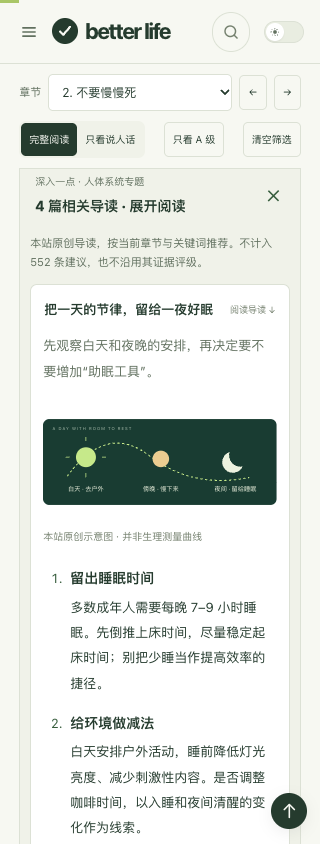
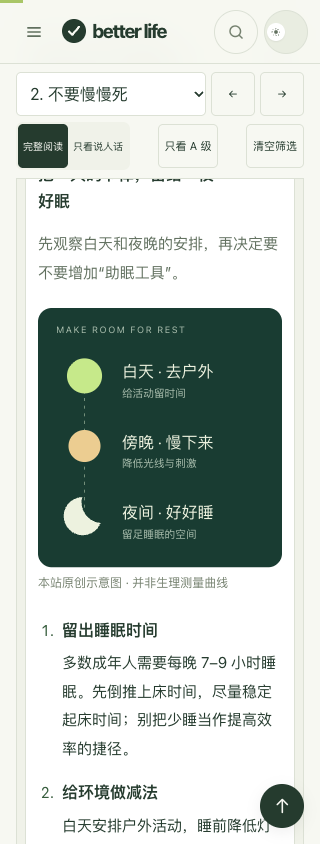
feat: 统一电脑与手机阅读布局及插图适配

diff --git a/index.html b/index.html
@@ -277,6 +277,48 @@ html{scroll-behavior:smooth;scroll-padding-top:104px}body{font-size:14px}button,
 #companions{margin:18px 0;border:1px solid var(--divider);border-radius:9px;background:var(--bg-alt);scroll-margin-top:180px}#companions>summary{display:flex;align-items:center;justify-content:space-between;gap:15px;padding:17px 20px;cursor:pointer;list-style:none}#companions>summary::-webkit-details-marker{display:none}#companions>summary small{display:block;color:var(--t2);font-size:10px;margin-bottom:4px}#companions>summary strong{font-size:14px;font-weight:550}#companions>summary>span:last-child{font-size:23px;color:var(--brand-1);transition:transform .2s}#companions[open]>summary>span:last-child{transform:rotate(45deg)}.companion-body{padding:0 20px 18px}.companion-note{font-size:11px;color:var(--t2);line-height:1.8;margin:0 0 12px}.companion-guide{background:var(--bg-elv);border:1px solid var(--divider);border-radius:7px;margin:9px 0;scroll-margin-top:180px}.companion-guide>summary{display:flex;gap:12px;align-items:center;justify-content:space-between;padding:16px;cursor:pointer;list-style:none;font-size:14px;font-weight:550}.companion-guide>summary::-webkit-details-marker{display:none}.companion-guide>summary small{font-size:10px;color:var(--t3);font-weight:400;white-space:nowrap}.guide-content{padding:0 18px 18px;font-size:13px;line-height:1.95}.guide-deck{color:var(--t2);margin:0 0 18px}.guide-content figure{margin:18px 0}.guide-content svg{display:block;width:100%;height:auto;border-radius:10px}.guide-content figcaption{font-size:10px;color:var(--t3);margin-top:5px}.guide-content ol{padding-left:23px}.guide-content li{padding-left:4px;margin:13px 0}.guide-content li::marker{color:var(--brand-1)}.guide-content h4{font-size:14px;font-weight:550;margin:0 0 3px}.guide-content p{margin-top:0}.guide-content aside{background:var(--bg-alt);border-left:2px solid #9aad83;padding:12px 15px;margin:20px 0}.guide-content aside p{margin:5px 0 0}.guide-related,.guide-sources,.guide-permalink{font-size:11px}.guide-related a{display:inline-block;margin-right:6px}.guide-sources{margin:12px 0}.guide-sources summary,.companion-library summary{cursor:pointer}.companion-library{font-size:11px;line-height:1.9;margin-top:15px;color:var(--t2)}.companion-library small{display:block;color:var(--t3)}.companion-library li{margin:10px 0}.guide-content a,.companion-library a{overflow-wrap:anywhere}#companions :focus-visible{outline:2px solid var(--brand-1);outline-offset:4px}@media(max-width:640px){.companion-body{padding:0 10px 12px}#companions>summary{padding:15px}.guide-content{padding:0 12px 14px}.companion-guide>summary{padding:13px;font-size:13px}.companion-guide>summary small{font-size:9px}.guide-content svg{min-height:120px}}@media(prefers-reduced-motion:reduce){#companions>summary>span:last-child{transition:none}}
 
 /* COMPANION STYLE END */
+/* RESPONSIVE STYLE BEGIN */
+/* Shared reading scale. Keep the compact homepage; enlarge content, not empty space. */
+:root{--reader-size:15px;--reader-leading:1.9}
+.human,.rows,.src .body,.intro,.guide-content{font-size:var(--reader-size);line-height:var(--reader-leading)}
+.rows .k,.src summary,.doc-links,.companion-note,.companion-library,.guide-related,.guide-sources,.guide-permalink{font-size:12px}
+.guide-content{max-width:800px;margin-inline:auto;overflow-wrap:anywhere}
+.guide-content h4{font-size:16px}.guide-content figcaption{font-size:12px;line-height:1.7}
+.guide-content figure{max-width:760px;margin:22px auto}.guide-content svg{min-height:0}
+.guide-content .guide-art-mobile{display:none}
+.companion-guide>summary{font-size:16px;min-height:52px}.companion-guide>summary small{font-size:11px}
+.large-text{--reader-size:18px}.large-text .human,.large-text .rows,.large-text .src .body,.large-text .intro,.large-text .guide-content{font-size:var(--reader-size)}
+.large-text .guide-content h4{font-size:19px}
+.card-h h3{overflow-wrap:anywhere}.sec-h h2{min-width:0}.sec-h .shown{flex-shrink:0}
+.reading-tools{gap:10px}.chapter-controls{min-width:0;flex:1 1 260px}.chapter-controls select{max-width:none}.reading-switches{flex-wrap:wrap}
+.reading-tools button,.chapter-controls select,.hero-chapter select,.stat button,.outline-button{min-height:44px}
+.reading-tools button{font-size:12px}.chapter-controls select{font-size:14px}
+#chapter-prev,#chapter-next{min-width:44px}.save-button{width:44px;min-width:44px;min-height:44px}
+#chapter-index a,.guide-sources summary,.companion-library summary,.reading-help>summary{min-height:44px;display:flex;align-items:center}
+.reading-help>summary{justify-content:space-between;gap:12px}
+.guide-related a,.guide-permalink{padding-block:8px}
+.back-top{width:44px;height:44px;right:max(16px,env(safe-area-inset-right));bottom:max(16px,env(safe-area-inset-bottom))}
+@media(min-width:961px){.sidebar .sec-link{font-size:12px;min-height:36px}.sidebar .chip{font-size:12px;min-height:32px}}
+@media(max-width:960px){
+ .menu-btn{width:44px;height:44px;flex-shrink:0}.sidebar{padding-bottom:max(24px,env(safe-area-inset-bottom));overflow-y:auto;overscroll-behavior:contain}.sidebar .sec-link{min-height:44px;font-size:14px}.sidebar .chip{min-height:44px;padding:8px 12px}.sidebar .toggle{min-height:44px;display:flex;align-items:center}
+ .search input{font-size:16px;min-height:44px}.chapter-controls select,.hero-chapter select{font-size:16px}
+ .switch{width:44px;height:44px;border-radius:24px}.switch .knob{top:12px}.switch .knob{left:2px}
+ .card,.sec-block,#companions,.companion-guide{scroll-margin-top:230px}
+}
+@media(max-width:640px){
+ .nav-in{padding-inline:max(12px,env(safe-area-inset-left));gap:6px}.title{font-size:19px;gap:6px;white-space:nowrap}.title .logo{width:24px;height:24px}.search{max-width:44px;flex-shrink:0}.search input{width:44px}.search svg{left:13px}
+ .library-layout,.library-heading{margin-inline:16px}.card{padding:18px 14px}.card-h{gap:7px}.card-h h3{font-size:17px}.human{padding:12px}.badge{font-size:11px}.rows{gap:5px}.rows .k{font-size:12px}.doc-head .reader-note{font-size:12px}.doc-head .stat{font-size:11px;gap:5px}.stat #text-size,.stat #saved-filter{font-size:11px;padding:8px}
+ .chapter-controls{flex-basis:100%;gap:5px}.chapter-controls label{display:none}.reading-tools{padding:8px 0;gap:6px}.reading-switches{gap:4px}.reading-tools button{padding:8px 6px;font-size:11px}.segmented{padding:2px}.reading-tools .segmented button{font-size:10px;padding-inline:5px}
+ #companions>summary{padding:15px 12px}#companions>summary small{font-size:12px}.companion-body{padding:0 8px 12px}.companion-guide>summary{padding:14px 12px;gap:8px;align-items:flex-start}.companion-guide>summary span{flex:1;min-width:0}.companion-guide>summary small{font-size:11px;line-height:24px}.guide-content{padding:0 12px 16px}.guide-content ol{padding-left:20px}.guide-content aside{padding:12px}.guide-content figure{max-width:340px}.guide-content .guide-art-wide{display:none}.guide-content .guide-art-mobile{display:block}.companion-note{line-height:1.8}.companion-library ul{padding-left:20px}
+ .hero-chapter select{min-height:44px}.path-card p{font-size:10px}.path-card h3{font-size:13px}.hero-actions .primary,.hero-actions .text-action{min-height:44px;display:inline-flex;align-items:center}.evidence-help .method p{font-size:12px}
+}
+/* Short landscape screens need room for the article, not a second pinned header. */
+@media(max-height:500px) and (max-width:960px){.reading-tools{position:static}.card,.sec-block,#companions,.companion-guide{scroll-margin-top:calc(var(--nav-h) + 14px)}.sidebar .sec-links{max-height:none}.hero-art{height:240px}}
+
+html{scroll-padding-top:calc(var(--nav-h) + 16px)}
+.card,.sec-block,#companions,.companion-guide{scroll-margin-top:max(0px,calc(var(--reading-offset,230px) - var(--nav-h) - 16px))}
+
+/* RESPONSIVE STYLE END */
 </style>
 </head>
 <body>
@@ -906,7 +948,7 @@ const CARD_IO = new IntersectionObserver(list => {
 }, {rootMargin:'600px 0px'});
 function esc(s){ return s.replace(/[&<>"]/g, ch => ({'&':'&amp;','<':'&lt;','>':'&gt;','"':'&quot;'}[ch])); }
 /* COMPANION SCRIPT BEGIN */
-const COMPANIONS = {"version":1,"reviewed":"2026-09-29","upstreamCommit":"de3188fb1fbc8ac83fd72155df2c11ce9cddd2ba","guides":[{"id":"sleep","title":"把一天的节律，留给一夜好眠","chapters":["2","3"],"topic":"睡眠","deck":"先观察白天和夜晚的安排，再决定要不要增加“助眠工具”。","steps":[["留出睡眠时间","多数成年人需要每晚 7–9 小时睡眠。先倒推上床时间，尽量稳定起床时间；别把少睡当作提高效率的捷径。"],["给环境做减法","白天安排户外活动，睡前降低灯光亮度、减少刺激性内容。是否调整咖啡时间，以入睡和夜间清醒的变化作为线索。"],["记录真实感受","可连续记录一周的睡眠时段与白天困倦程度。这是本站提供的观察方法，不是诊断量表；持续失眠、明显打鼾或白天嗜睡值得就医评估。"]],"boundary":"不把光照精确分钟数、冷水澡或镁与芹黄素配方作为通用处方；睡眠需求也不能用手环的一次评分替代。","refs":[{"title":"NHLBI：睡眠时长与质量","url":"https://www.nhlbi.nih.gov/health/heart-healthy-living/sleep"},{"title":"NHLBI：失眠的治疗与睡眠习惯","url":"https://www.nhlbi.nih.gov/health/insomnia/treatment"}],"art":"rhythm","source":"https://github.com/zijie0/HumanSystemOptimization/blob/de3188fb1fbc8ac83fd72155df2c11ce9cddd2ba/README.md#睡眠","illustration":"\u003csvg xmlns=\"http://www.w3.org/2000/svg\" viewBox=\"0 0 680 250\" role=\"img\" aria-label=\"作息示意：白天活动，傍晚减速，夜间休息；非生理测量曲线\">\u003ctitle>作息示意：白天活动，傍晚减速，夜间休息；非生理测量曲线\u003c/title>\u003crect width=\"680\" height=\"250\" rx=\"18\" fill=\"#193c32\"/>\u003cg font-family=\"system-ui,sans-serif\">\u003cpath d=\"M70 167 Q185 10 310 107 T600 170\" fill=\"none\" stroke=\"#c6e98a\" stroke-width=\"3\" stroke-dasharray=\"7 7\"/>\u003ccircle cx=\"125\" cy=\"111\" r=\"29\" fill=\"#c6e98a\"/>\u003cg stroke=\"#c6e98a\" stroke-width=\"2\">\u003cpath d=\"M125 64v-12M125 158v12M78 111H66M172 111h12\"/>\u003c/g>\u003ccircle cx=\"343\" cy=\"116\" r=\"24\" fill=\"#eccd91\"/>\u003cpath d=\"M543 96a31 31 0 1 0 38 42 33 33 0 0 1-38-42\" fill=\"#edf2df\"/>\u003cg fill=\"#edf2df\" text-anchor=\"middle\" font-size=\"18\">\u003ctext x=\"125\" y=\"210\">白天 · 去户外\u003c/text>\u003ctext x=\"343\" y=\"210\">傍晚 · 慢下来\u003c/text>\u003ctext x=\"560\" y=\"210\">夜间 · 留给睡眠\u003c/text>\u003c/g>\u003ctext x=\"28\" y=\"33\" fill=\"#a9bdad\" font-size=\"12\" letter-spacing=\"3\">A DAY WITH ROOM TO REST\u003c/text>\u003c/g>\u003c/svg>"},{"id":"food","title":"先照顾餐盘，再讨论进食窗口","chapters":["2","16","28"],"topic":"饮食","deck":"食物质量、能否坚持与身体状况，比追求一张完美的时间表更重要。","steps":[["从一餐开始","以多样的蔬菜、水果、全谷物和豆类为基础，减少游离糖、过量盐及不健康脂肪。先选一餐做可持续的替换，不必一次改变全部饮食。"],["把断食当作待评估选项","间歇性断食并非人人必需，也没有在此被认定为人类延寿方案。使用降糖药、有进食障碍史、孕哺期或未成年人，应先咨询专业人员，不自行照搬成人限时饮食。"],["身体不适优先处理","不要用盐水代替低血糖处理。糖尿病患者若血糖低于个人目标或 70 mg/dL，且意识清醒、能够吞咽，NIDDK 建议立即摄入 15–20 克快速碳水，15 分钟后复测，仍低时重复处理。严重意识异常需急救，不强行喂食；具体用药相关处理见下方来源。"]],"boundary":"消化道健康也不能靠“空腹越久越好”判断。长时间不进食与快速减重可能增加胆结石风险；有胆囊问题时应个体化评估。","refs":[{"title":"WHO：健康膳食","url":"https://www.who.int/health-topics/healthy-diet"},{"title":"NIDDK：低血糖处理","url":"https://www.niddk.nih.gov/health-information/diabetes/overview/preventing-problems/low-blood-glucose-hypoglycemia"},{"title":"NIDDK：节食与胆结石","url":"https://www.niddk.nih.gov/health-information/digestive-diseases/gallstones/dieting"}],"art":null,"source":"https://github.com/zijie0/HumanSystemOptimization/blob/de3188fb1fbc8ac83fd72155df2c11ce9cddd2ba/README.md#饮食"},{"id":"drive","title":"让开始变容易，让反馈看得见","chapters":["3","4","22"],"topic":"心态与动力","deck":"不必给自己的动力余额打分。把想做的事缩小到今天可以开始的动作。","steps":[["把目标变成动作","本站建议：把“提高专注”改成“打开文档，写出三个问题”；把“坚持运动”改成“换鞋出门走一小段”。这是任务设计示例，不是多巴胺治疗方案。"],["给过程留反馈","记录完成了什么、哪里受阻、下次调整什么。成长型思维可以作为反思提示，但不能保证只要足够努力就一定获得某种结果。"],["允许恢复与求助","休息不需要先被证明有生产力。可尝试短暂、舒适的呼吸觉察；如果练习引起明显不适就停止。持续的情绪困扰应寻求合适的支持。"]],"boundary":"原文涉及多巴胺、奖励与冷刺激。神经递质不是一个可自行测算的“快乐余额”；本站不推荐以冰浴、补充剂或所谓聪明药调节它，也不承诺一次冥想永久改变大脑。","refs":[{"title":"NCCIH：冥想的效果与安全性","url":"https://www.nccih.nih.gov/health/meditation-and-mindfulness-effectiveness-and-safety"}],"art":null,"source":"https://github.com/zijie0/HumanSystemOptimization/blob/de3188fb1fbc8ac83fd72155df2c11ce9cddd2ba/README.md#心态与动力"},{"id":"learning","title":"合上资料，才知道学会了多少","chapters":["4","23","30","32"],"topic":"学习与专注","deck":"把“看过”变成“能回忆、能应用”，给练习和休息都留位置。","steps":[["先提出问题","阅读之前写下一个需要解决的问题。结束时合上资料，用自己的话回答，再对照资料纠正遗漏。"],["隔一段时间再提取","把一次长时间重复阅读拆成多次回忆和应用练习。间隔提取研究支持这种方向，但具体间隔应随材料难度与目标调整，没有通用神奇分钟数。"],["为休息留空位","NIH 报道的运动技能实验观察到练习间短休息与学习巩固有关。可以据此尝试练习—休息交替，但不能直接推导为所有学科的固定学习配方。"]],"boundary":"不把 25 岁当作学习能力的截止线，也不把倒立、前庭刺激、特殊补剂或极度压力当作学习必需条件。插图是一种学习流程建议，不是大脑活动测量结果。","refs":[{"title":"Karpicke 与 Roediger：间隔提取实验","url":"https://pubmed.ncbi.nlm.nih.gov/17576148/"},{"title":"NIH：短暂休息与技能学习","url":"https://www.nih.gov/news-events/nih-research-matters/how-short-breaks-help-brain-learn-new-skills"}],"art":"learning","source":"https://github.com/zijie0/HumanSystemOptimization/blob/de3188fb1fbc8ac83fd72155df2c11ce9cddd2ba/README.md#学习与专注","illustration":"\u003csvg xmlns=\"http://www.w3.org/2000/svg\" viewBox=\"0 0 680 250\" role=\"img\" aria-label=\"学习循环：提出问题、主动回忆、核对反馈、休息后重访\">\u003ctitle>学习循环：提出问题、主动回忆、核对反馈、休息后重访\u003c/title>\u003crect width=\"680\" height=\"250\" rx=\"18\" fill=\"#193c32\"/>\u003cg font-family=\"system-ui,sans-serif\">\u003ctext x=\"28\" y=\"33\" fill=\"#a9bdad\" font-size=\"12\" letter-spacing=\"3\">LEARNING IS A LOOP\u003c/text>\u003cpath d=\"M97 123H580M580 170v35H97v-35\" stroke=\"#a9bdad\" fill=\"none\" stroke-width=\"2\"/>\u003cg text-anchor=\"middle\">\u003ccircle cx=\"97\" cy=\"123\" r=\"40\" fill=\"#edf2df\"/>\u003ctext x=\"97\" y=\"130\" fill=\"#193c32\" font-size=\"21\">01\u003c/text>\u003ctext x=\"97\" y=\"184\" fill=\"#edf2df\" font-size=\"16\">提出问题\u003c/text>\u003ccircle cx=\"258\" cy=\"123\" r=\"40\" fill=\"#c6e98a\"/>\u003ctext x=\"258\" y=\"130\" fill=\"#193c32\" font-size=\"21\">02\u003c/text>\u003ctext x=\"258\" y=\"184\" fill=\"#edf2df\" font-size=\"16\">主动回忆\u003c/text>\u003ccircle cx=\"419\" cy=\"123\" r=\"40\" fill=\"#eccd91\"/>\u003ctext x=\"419\" y=\"130\" fill=\"#193c32\" font-size=\"21\">03\u003c/text>\u003ctext x=\"419\" y=\"184\" fill=\"#edf2df\" font-size=\"16\">核对反馈\u003c/text>\u003ccircle cx=\"580\" cy=\"123\" r=\"40\" fill=\"#b6cbbd\"/>\u003ctext x=\"580\" y=\"130\" fill=\"#193c32\" font-size=\"21\">04\u003c/text>\u003ctext x=\"580\" y=\"184\" fill=\"#edf2df\" font-size=\"16\">休息重访\u003c/text>\u003c/g>\u003cpath d=\"m107 199-10 6 10 6\" fill=\"none\" stroke=\"#c6e98a\" stroke-width=\"2\"/>\u003c/g>\u003c/svg>"},{"id":"movement","title":"运动计划，先从能持续的一周开始","chapters":["2","3","17","28"],"topic":"体育锻炼","deck":"把有氧、力量与恢复放进生活，比追赶一个设备分数更有意义。","steps":[["有氧分散到一周","WHO 建议成年人每周至少 150–300 分钟中等强度，或 75–150 分钟高强度有氧活动，或等效组合。尚未达到时，从能力允许的小量活动开始。"],["给力量留位置","成年人每周至少两天进行涉及主要肌群的力量活动。年长者还应重视平衡与功能训练，强度随健康状态和能力调整。"],["久坐之间动一动","本站提供的排程示例：选择几个可重复的散步时段，再安排两次力量练习。它不是人人适用的训练处方，也不要求购买穿戴设备。"]],"boundary":"PAI 或手环热量只能作为设备提供的线索，不能代替医学评估，也不作为这里的统一达标线。有基础疾病或运动中出现异常症状时，需调整计划并寻求专业评估。","refs":[{"title":"WHO：身体活动建议","url":"https://www.who.int/news-room/fact-sheets/detail/physical-activity"}],"art":null,"source":"https://github.com/zijie0/HumanSystemOptimization/blob/de3188fb1fbc8ac83fd72155df2c11ce9cddd2ba/README.md#体育锻炼"},{"id":"longevity","title":"读懂抗衰研究的三层距离","chapters":["2","16","17","24"],"topic":"长寿","deck":"从实验室结果到个人决策，中间还有适用人群、临床结局和安全性。","steps":[["先问研究在谁身上做","细胞、动物与人体研究回答不同问题。细胞重编程的实验进展值得关注，但不能直接等同于可供普通人使用的返老还童治疗。"],["再问测量了什么","生物标志物变化、疾病风险与实际寿命不是同一结局。看到“生物年龄下降”，要继续追问研究规模、对照方式、随访时间与不良反应。"],["最后才讨论个人选择","将注意力优先放在睡眠、身体活动与膳食等已有公共健康建议的事项上。处方药是否适用由临床诊疗决定；不要为抗衰自行使用二甲双胍或组合补剂。"]],"boundary":"原文讨论 NMN、白藜芦醇、药物与细胞重编程，并补充了争议提醒。本站仅保留研究阅读入口，不给剂量、不卖产品、不承诺健康活到某个年龄。","refs":[{"title":"NIA：模拟热量限制的药物研究","url":"https://www.nia.nih.gov/news/live-long-good-health-could-calorie-restriction-mimetics-hold-key"},{"title":"NIA：断食研究与人体健康指标","url":"https://www.nia.nih.gov/news/can-fasting-reduce-disease-risk-and-slow-aging-people"}],"art":"evidence","source":"https://github.com/zijie0/HumanSystemOptimization/blob/de3188fb1fbc8ac83fd72155df2c11ce9cddd2ba/README.md#长寿","illustration":"\u003csvg xmlns=\"http://www.w3.org/2000/svg\" viewBox=\"0 0 680 250\" role=\"img\" aria-label=\"证据示意：细胞或动物实验、人体研究、适用于个人的决策；并非自动升级\">\u003ctitle>证据示意：细胞或动物实验、人体研究、适用于个人的决策；并非自动升级\u003c/title>\u003crect width=\"680\" height=\"250\" rx=\"18\" fill=\"#193c32\"/>\u003cg font-family=\"system-ui,sans-serif\">\u003ctext x=\"28\" y=\"33\" fill=\"#a9bdad\" font-size=\"12\" letter-spacing=\"3\">PROMISE ≠ PROOF\u003c/text>\u003cpath d=\"M55 205h170v-45h170v-45h230\" fill=\"none\" stroke=\"#c6e98a\" stroke-width=\"3\"/>\u003cg fill=\"#edf2df\" font-size=\"18\">\u003ctext x=\"55\" y=\"143\">细胞 / 动物\u003c/text>\u003ctext x=\"259\" y=\"98\">人体研究\u003c/text>\u003ctext x=\"466\" y=\"64\">个人决策\u003c/text>\u003c/g>\u003cg fill=\"#a9bdad\" font-size=\"13\">\u003ctext x=\"55\" y=\"168\">提供机制线索\u003c/text>\u003ctext x=\"259\" y=\"124\">看结局与风险\u003c/text>\u003ctext x=\"466\" y=\"90\">看适用性与获益\u003c/text>\u003c/g>\u003ctext x=\"320\" y=\"226\" fill=\"#c6e98a\" font-size=\"12\">每一步都需要额外证据，不能直接跳过。\u003c/text>\u003c/g>\u003c/svg>"},{"id":"experiment","title":"一次只改一件事，给生活留下余量","chapters":["3","4","22"],"topic":"个人实践","deck":"把他人的日常当作灵感，把自己的记录当作观察；二者都不是因果证明。","steps":[["选一个低负担改变","例如提前准备散步鞋、睡前给手机找一个固定位置，或学习结束后写一张回忆卡。不要同时改作息、饮食和训练，再猜是哪项起效。"],["记下条件与感受","本站建议记录日期、实际动作、精力感受及明显干扰因素。观察一段时间后再决定保留、调整或停止；周期长短不等于医学试验有效性。"],["允许撤回","如果新习惯增加焦虑、持续不适或影响正常生活，应停止并重新评估。生活改善不需要购买同款补剂，也不必照抄名人的整张日程。"]],"boundary":"作者的 2023、2024 年总结与 Lex Fridman 日程文章收在下方原文目录。当前无法读取这些知乎正文，因此这里只提供入口，不把标题当作内容、不编造其结论。","refs":[],"art":null,"source":"https://github.com/zijie0/HumanSystemOptimization/blob/de3188fb1fbc8ac83fd72155df2c11ce9cddd2ba/README.md#个人实践"}],"articles":[{"title":"人体系统调优不完全指南","url":"https://github.com/zijie0/HumanSystemOptimization/blob/de3188fb1fbc8ac83fd72155df2c11ce9cddd2ba/README.md","status":"已读主题正文 · 以原创导读融合"},{"title":"养生博主的 24 年总结","url":"https://zhuanlan.zhihu.com/p/1896275046068094483","status":"仅原文入口 · 正文未取得"},{"title":"养生博主的 23 年总结","url":"https://zhuanlan.zhihu.com/p/675470252","status":"仅原文入口 · 正文未取得"},{"title":"Lex Fridman 大佬的日常生活安排","url":"https://zhuanlan.zhihu.com/p/371254789","status":"仅原文入口 · 正文未取得"},{"title":"人体系统调优 · 作者视频版","url":"https://www.bilibili.com/video/BV1EW4y1R7yi/","status":"视频入口 · 未逐段核验"}]};
+const COMPANIONS = {"version":1,"reviewed":"2026-09-29","upstreamCommit":"de3188fb1fbc8ac83fd72155df2c11ce9cddd2ba","guides":[{"id":"sleep","title":"把一天的节律，留给一夜好眠","chapters":["2","3"],"topic":"睡眠","deck":"先观察白天和夜晚的安排，再决定要不要增加“助眠工具”。","steps":[["留出睡眠时间","多数成年人需要每晚 7–9 小时睡眠。先倒推上床时间，尽量稳定起床时间；别把少睡当作提高效率的捷径。"],["给环境做减法","白天安排户外活动，睡前降低灯光亮度、减少刺激性内容。是否调整咖啡时间，以入睡和夜间清醒的变化作为线索。"],["记录真实感受","可连续记录一周的睡眠时段与白天困倦程度。这是本站提供的观察方法，不是诊断量表；持续失眠、明显打鼾或白天嗜睡值得就医评估。"]],"boundary":"不把光照精确分钟数、冷水澡或镁与芹黄素配方作为通用处方；睡眠需求也不能用手环的一次评分替代。","refs":[{"title":"NHLBI：睡眠时长与质量","url":"https://www.nhlbi.nih.gov/health/heart-healthy-living/sleep"},{"title":"NHLBI：失眠的治疗与睡眠习惯","url":"https://www.nhlbi.nih.gov/health/insomnia/treatment"}],"art":"rhythm","source":"https://github.com/zijie0/HumanSystemOptimization/blob/de3188fb1fbc8ac83fd72155df2c11ce9cddd2ba/README.md#睡眠","illustration":"\u003csvg class=\"guide-art-wide\" xmlns=\"http://www.w3.org/2000/svg\" viewBox=\"0 0 680 250\" role=\"img\" aria-label=\"作息示意：白天活动，傍晚减速，夜间休息；非生理测量曲线\">\u003ctitle>作息示意：白天活动，傍晚减速，夜间休息；非生理测量曲线\u003c/title>\u003crect width=\"680\" height=\"250\" rx=\"18\" fill=\"#193c32\"/>\u003cg font-family=\"system-ui,sans-serif\">\u003cpath d=\"M70 167 Q185 10 310 107 T600 170\" fill=\"none\" stroke=\"#c6e98a\" stroke-width=\"3\" stroke-dasharray=\"7 7\"/>\u003ccircle cx=\"125\" cy=\"111\" r=\"29\" fill=\"#c6e98a\"/>\u003cg stroke=\"#c6e98a\" stroke-width=\"2\">\u003cpath d=\"M125 64v-12M125 158v12M78 111H66M172 111h12\"/>\u003c/g>\u003ccircle cx=\"343\" cy=\"116\" r=\"24\" fill=\"#eccd91\"/>\u003cpath d=\"M543 96a31 31 0 1 0 38 42 33 33 0 0 1-38-42\" fill=\"#edf2df\"/>\u003cg fill=\"#edf2df\" text-anchor=\"middle\" font-size=\"18\">\u003ctext x=\"125\" y=\"210\">白天 · 去户外\u003c/text>\u003ctext x=\"343\" y=\"210\">傍晚 · 慢下来\u003c/text>\u003ctext x=\"560\" y=\"210\">夜间 · 留给睡眠\u003c/text>\u003c/g>\u003ctext x=\"28\" y=\"33\" fill=\"#a9bdad\" font-size=\"12\" letter-spacing=\"3\">A DAY WITH ROOM TO REST\u003c/text>\u003c/g>\u003c/svg>\u003csvg class=\"guide-art-mobile\" xmlns=\"http://www.w3.org/2000/svg\" viewBox=\"0 0 320 340\" role=\"img\" aria-label=\"一天的节律：白天去户外，傍晚慢下来，夜间留给睡眠。非测量曲线。\">\u003ctitle>一天的节律：白天去户外，傍晚慢下来，夜间留给睡眠。非测量曲线。\u003c/title>\u003crect width=\"320\" height=\"340\" rx=\"18\" fill=\"#193c32\"/>\u003cg font-family=\"system-ui,sans-serif\">\u003ctext x=\"24\" y=\"33\" fill=\"#a9bdad\" font-size=\"12\" letter-spacing=\"2\">MAKE ROOM FOR REST\u003c/text>\u003cpath d=\"M61 78V275\" stroke=\"#8fa990\" stroke-dasharray=\"4 6\"/>\u003ccircle cx=\"61\" cy=\"89\" r=\"23\" fill=\"#c6e98a\"/>\u003ccircle cx=\"61\" cy=\"181\" r=\"21\" fill=\"#eccd91\"/>\u003cpath d=\"M58 248a25 25 0 1 0 24 34 27 27 0 0 1-24-34\" fill=\"#edf2df\"/>\u003cg fill=\"#edf2df\" font-size=\"21\">\u003ctext x=\"110\" y=\"91\">白天 · 去户外\u003c/text>\u003ctext x=\"110\" y=\"183\">傍晚 · 慢下来\u003c/text>\u003ctext x=\"110\" y=\"275\">夜间 · 好好睡\u003c/text>\u003c/g>\u003cg fill=\"#a9bdad\" font-size=\"14\">\u003ctext x=\"110\" y=\"117\">给活动留时间\u003c/text>\u003ctext x=\"110\" y=\"209\">降低光线与刺激\u003c/text>\u003ctext x=\"110\" y=\"301\">留足睡眠的空间\u003c/text>\u003c/g>\u003c/g>\u003c/svg>"},{"id":"food","title":"先照顾餐盘，再讨论进食窗口","chapters":["2","16","28"],"topic":"饮食","deck":"食物质量、能否坚持与身体状况，比追求一张完美的时间表更重要。","steps":[["从一餐开始","以多样的蔬菜、水果、全谷物和豆类为基础，减少游离糖、过量盐及不健康脂肪。先选一餐做可持续的替换，不必一次改变全部饮食。"],["把断食当作待评估选项","间歇性断食并非人人必需，也没有在此被认定为人类延寿方案。使用降糖药、有进食障碍史、孕哺期或未成年人，应先咨询专业人员，不自行照搬成人限时饮食。"],["身体不适优先处理","不要用盐水代替低血糖处理。糖尿病患者若血糖低于个人目标或 70 mg/dL，且意识清醒、能够吞咽，NIDDK 建议立即摄入 15–20 克快速碳水，15 分钟后复测，仍低时重复处理。严重意识异常需急救，不强行喂食；具体用药相关处理见下方来源。"]],"boundary":"消化道健康也不能靠“空腹越久越好”判断。长时间不进食与快速减重可能增加胆结石风险；有胆囊问题时应个体化评估。","refs":[{"title":"WHO：健康膳食","url":"https://www.who.int/health-topics/healthy-diet"},{"title":"NIDDK：低血糖处理","url":"https://www.niddk.nih.gov/health-information/diabetes/overview/preventing-problems/low-blood-glucose-hypoglycemia"},{"title":"NIDDK：节食与胆结石","url":"https://www.niddk.nih.gov/health-information/digestive-diseases/gallstones/dieting"}],"art":null,"source":"https://github.com/zijie0/HumanSystemOptimization/blob/de3188fb1fbc8ac83fd72155df2c11ce9cddd2ba/README.md#饮食"},{"id":"drive","title":"让开始变容易，让反馈看得见","chapters":["3","4","22"],"topic":"心态与动力","deck":"不必给自己的动力余额打分。把想做的事缩小到今天可以开始的动作。","steps":[["把目标变成动作","本站建议：把“提高专注”改成“打开文档，写出三个问题”；把“坚持运动”改成“换鞋出门走一小段”。这是任务设计示例，不是多巴胺治疗方案。"],["给过程留反馈","记录完成了什么、哪里受阻、下次调整什么。成长型思维可以作为反思提示，但不能保证只要足够努力就一定获得某种结果。"],["允许恢复与求助","休息不需要先被证明有生产力。可尝试短暂、舒适的呼吸觉察；如果练习引起明显不适就停止。持续的情绪困扰应寻求合适的支持。"]],"boundary":"原文涉及多巴胺、奖励与冷刺激。神经递质不是一个可自行测算的“快乐余额”；本站不推荐以冰浴、补充剂或所谓聪明药调节它，也不承诺一次冥想永久改变大脑。","refs":[{"title":"NCCIH：冥想的效果与安全性","url":"https://www.nccih.nih.gov/health/meditation-and-mindfulness-effectiveness-and-safety"}],"art":null,"source":"https://github.com/zijie0/HumanSystemOptimization/blob/de3188fb1fbc8ac83fd72155df2c11ce9cddd2ba/README.md#心态与动力"},{"id":"learning","title":"合上资料，才知道学会了多少","chapters":["4","23","30","32"],"topic":"学习与专注","deck":"把“看过”变成“能回忆、能应用”，给练习和休息都留位置。","steps":[["先提出问题","阅读之前写下一个需要解决的问题。结束时合上资料，用自己的话回答，再对照资料纠正遗漏。"],["隔一段时间再提取","把一次长时间重复阅读拆成多次回忆和应用练习。间隔提取研究支持这种方向，但具体间隔应随材料难度与目标调整，没有通用神奇分钟数。"],["为休息留空位","NIH 报道的运动技能实验观察到练习间短休息与学习巩固有关。可以据此尝试练习—休息交替，但不能直接推导为所有学科的固定学习配方。"]],"boundary":"不把 25 岁当作学习能力的截止线，也不把倒立、前庭刺激、特殊补剂或极度压力当作学习必需条件。插图是一种学习流程建议，不是大脑活动测量结果。","refs":[{"title":"Karpicke 与 Roediger：间隔提取实验","url":"https://pubmed.ncbi.nlm.nih.gov/17576148/"},{"title":"NIH：短暂休息与技能学习","url":"https://www.nih.gov/news-events/nih-research-matters/how-short-breaks-help-brain-learn-new-skills"}],"art":"learning","source":"https://github.com/zijie0/HumanSystemOptimization/blob/de3188fb1fbc8ac83fd72155df2c11ce9cddd2ba/README.md#学习与专注","illustration":"\u003csvg class=\"guide-art-wide\" xmlns=\"http://www.w3.org/2000/svg\" viewBox=\"0 0 680 250\" role=\"img\" aria-label=\"学习循环：提出问题、主动回忆、核对反馈、休息后重访\">\u003ctitle>学习循环：提出问题、主动回忆、核对反馈、休息后重访\u003c/title>\u003crect width=\"680\" height=\"250\" rx=\"18\" fill=\"#193c32\"/>\u003cg font-family=\"system-ui,sans-serif\">\u003ctext x=\"28\" y=\"33\" fill=\"#a9bdad\" font-size=\"12\" letter-spacing=\"3\">LEARNING IS A LOOP\u003c/text>\u003cpath d=\"M97 123H580M580 170v35H97v-35\" stroke=\"#a9bdad\" fill=\"none\" stroke-width=\"2\"/>\u003cg text-anchor=\"middle\">\u003ccircle cx=\"97\" cy=\"123\" r=\"40\" fill=\"#edf2df\"/>\u003ctext x=\"97\" y=\"130\" fill=\"#193c32\" font-size=\"21\">01\u003c/text>\u003ctext x=\"97\" y=\"184\" fill=\"#edf2df\" font-size=\"16\">提出问题\u003c/text>\u003ccircle cx=\"258\" cy=\"123\" r=\"40\" fill=\"#c6e98a\"/>\u003ctext x=\"258\" y=\"130\" fill=\"#193c32\" font-size=\"21\">02\u003c/text>\u003ctext x=\"258\" y=\"184\" fill=\"#edf2df\" font-size=\"16\">主动回忆\u003c/text>\u003ccircle cx=\"419\" cy=\"123\" r=\"40\" fill=\"#eccd91\"/>\u003ctext x=\"419\" y=\"130\" fill=\"#193c32\" font-size=\"21\">03\u003c/text>\u003ctext x=\"419\" y=\"184\" fill=\"#edf2df\" font-size=\"16\">核对反馈\u003c/text>\u003ccircle cx=\"580\" cy=\"123\" r=\"40\" fill=\"#b6cbbd\"/>\u003ctext x=\"580\" y=\"130\" fill=\"#193c32\" font-size=\"21\">04\u003c/text>\u003ctext x=\"580\" y=\"184\" fill=\"#edf2df\" font-size=\"16\">休息重访\u003c/text>\u003c/g>\u003cpath d=\"m107 199-10 6 10 6\" fill=\"none\" stroke=\"#c6e98a\" stroke-width=\"2\"/>\u003c/g>\u003c/svg>\u003csvg class=\"guide-art-mobile\" xmlns=\"http://www.w3.org/2000/svg\" viewBox=\"0 0 320 352\" role=\"img\" aria-label=\"学习循环：提出问题、主动回忆、核对反馈、休息后重访\">\u003ctitle>学习循环：提出问题、主动回忆、核对反馈、休息后重访\u003c/title>\u003crect width=\"320\" height=\"352\" rx=\"18\" fill=\"#193c32\"/>\u003cg font-family=\"system-ui,sans-serif\">\u003ctext x=\"24\" y=\"32\" fill=\"#a9bdad\" font-size=\"12\" letter-spacing=\"2\">LEARNING IS A LOOP\u003c/text>\u003cpath d=\"M58 79v224\" stroke=\"#8fa990\" stroke-width=\"2\"/>\u003ccircle cx=\"58\" cy=\"83\" r=\"23\" fill=\"#edf2df\"/>\u003ctext x=\"58\" y=\"89\" text-anchor=\"middle\" fill=\"#193c32\" font-size=\"17\">01\u003c/text>\u003ctext x=\"102\" y=\"90\" fill=\"#edf2df\" font-size=\"22\">提出问题\u003c/text>\u003ccircle cx=\"58\" cy=\"157\" r=\"23\" fill=\"#c6e98a\"/>\u003ctext x=\"58\" y=\"163\" text-anchor=\"middle\" fill=\"#193c32\" font-size=\"17\">02\u003c/text>\u003ctext x=\"102\" y=\"164\" fill=\"#edf2df\" font-size=\"22\">主动回忆\u003c/text>\u003ccircle cx=\"58\" cy=\"231\" r=\"23\" fill=\"#eccd91\"/>\u003ctext x=\"58\" y=\"237\" text-anchor=\"middle\" fill=\"#193c32\" font-size=\"17\">03\u003c/text>\u003ctext x=\"102\" y=\"238\" fill=\"#edf2df\" font-size=\"22\">核对反馈\u003c/text>\u003ccircle cx=\"58\" cy=\"305\" r=\"23\" fill=\"#b6cbbd\"/>\u003ctext x=\"58\" y=\"311\" text-anchor=\"middle\" fill=\"#193c32\" font-size=\"17\">04\u003c/text>\u003ctext x=\"102\" y=\"312\" fill=\"#edf2df\" font-size=\"22\">休息重访\u003c/text>\u003cpath d=\"M276 306h15V82h-10m7-5-7 5 7 5\" fill=\"none\" stroke=\"#c6e98a\" stroke-width=\"2\"/>\u003c/g>\u003c/svg>"},{"id":"movement","title":"运动计划，先从能持续的一周开始","chapters":["2","3","17","28"],"topic":"体育锻炼","deck":"把有氧、力量与恢复放进生活，比追赶一个设备分数更有意义。","steps":[["有氧分散到一周","WHO 建议成年人每周至少 150–300 分钟中等强度，或 75–150 分钟高强度有氧活动，或等效组合。尚未达到时，从能力允许的小量活动开始。"],["给力量留位置","成年人每周至少两天进行涉及主要肌群的力量活动。年长者还应重视平衡与功能训练，强度随健康状态和能力调整。"],["久坐之间动一动","本站提供的排程示例：选择几个可重复的散步时段，再安排两次力量练习。它不是人人适用的训练处方，也不要求购买穿戴设备。"]],"boundary":"PAI 或手环热量只能作为设备提供的线索，不能代替医学评估，也不作为这里的统一达标线。有基础疾病或运动中出现异常症状时，需调整计划并寻求专业评估。","refs":[{"title":"WHO：身体活动建议","url":"https://www.who.int/news-room/fact-sheets/detail/physical-activity"}],"art":null,"source":"https://github.com/zijie0/HumanSystemOptimization/blob/de3188fb1fbc8ac83fd72155df2c11ce9cddd2ba/README.md#体育锻炼"},{"id":"longevity","title":"读懂抗衰研究的三层距离","chapters":["2","16","17","24"],"topic":"长寿","deck":"从实验室结果到个人决策，中间还有适用人群、临床结局和安全性。","steps":[["先问研究在谁身上做","细胞、动物与人体研究回答不同问题。细胞重编程的实验进展值得关注，但不能直接等同于可供普通人使用的返老还童治疗。"],["再问测量了什么","生物标志物变化、疾病风险与实际寿命不是同一结局。看到“生物年龄下降”，要继续追问研究规模、对照方式、随访时间与不良反应。"],["最后才讨论个人选择","将注意力优先放在睡眠、身体活动与膳食等已有公共健康建议的事项上。处方药是否适用由临床诊疗决定；不要为抗衰自行使用二甲双胍或组合补剂。"]],"boundary":"原文讨论 NMN、白藜芦醇、药物与细胞重编程，并补充了争议提醒。本站仅保留研究阅读入口，不给剂量、不卖产品、不承诺健康活到某个年龄。","refs":[{"title":"NIA：模拟热量限制的药物研究","url":"https://www.nia.nih.gov/news/live-long-good-health-could-calorie-restriction-mimetics-hold-key"},{"title":"NIA：断食研究与人体健康指标","url":"https://www.nia.nih.gov/news/can-fasting-reduce-disease-risk-and-slow-aging-people"}],"art":"evidence","source":"https://github.com/zijie0/HumanSystemOptimization/blob/de3188fb1fbc8ac83fd72155df2c11ce9cddd2ba/README.md#长寿","illustration":"\u003csvg class=\"guide-art-wide\" xmlns=\"http://www.w3.org/2000/svg\" viewBox=\"0 0 680 250\" role=\"img\" aria-label=\"证据示意：细胞或动物实验、人体研究、适用于个人的决策；并非自动升级\">\u003ctitle>证据示意：细胞或动物实验、人体研究、适用于个人的决策；并非自动升级\u003c/title>\u003crect width=\"680\" height=\"250\" rx=\"18\" fill=\"#193c32\"/>\u003cg font-family=\"system-ui,sans-serif\">\u003ctext x=\"28\" y=\"33\" fill=\"#a9bdad\" font-size=\"12\" letter-spacing=\"3\">PROMISE ≠ PROOF\u003c/text>\u003cpath d=\"M55 205h170v-45h170v-45h230\" fill=\"none\" stroke=\"#c6e98a\" stroke-width=\"3\"/>\u003cg fill=\"#edf2df\" font-size=\"18\">\u003ctext x=\"55\" y=\"143\">细胞 / 动物\u003c/text>\u003ctext x=\"259\" y=\"98\">人体研究\u003c/text>\u003ctext x=\"466\" y=\"64\">个人决策\u003c/text>\u003c/g>\u003cg fill=\"#a9bdad\" font-size=\"13\">\u003ctext x=\"55\" y=\"168\">提供机制线索\u003c/text>\u003ctext x=\"259\" y=\"124\">看结局与风险\u003c/text>\u003ctext x=\"466\" y=\"90\">看适用性与获益\u003c/text>\u003c/g>\u003ctext x=\"320\" y=\"226\" fill=\"#c6e98a\" font-size=\"12\">每一步都需要额外证据，不能直接跳过。\u003c/text>\u003c/g>\u003c/svg>\u003csvg class=\"guide-art-mobile\" xmlns=\"http://www.w3.org/2000/svg\" viewBox=\"0 0 320 340\" role=\"img\" aria-label=\"研究证据到个人决策的三层距离，每一步需要额外证据\">\u003ctitle>研究证据到个人决策的三层距离，每一步需要额外证据\u003c/title>\u003crect width=\"320\" height=\"340\" rx=\"18\" fill=\"#193c32\"/>\u003cg font-family=\"system-ui,sans-serif\">\u003ctext x=\"24\" y=\"33\" fill=\"#a9bdad\" font-size=\"12\" letter-spacing=\"2\">PROMISE ≠ PROOF\u003c/text>\u003cpath d=\"M42 75v204\" stroke=\"#c6e98a\" stroke-width=\"2\" stroke-dasharray=\"4 6\"/>\u003ccircle cx=\"42\" cy=\"78\" r=\"7\" fill=\"#c6e98a\"/>\u003ctext x=\"68\" y=\"84\" fill=\"#edf2df\" font-size=\"22\">细胞 / 动物\u003c/text>\u003ctext x=\"68\" y=\"111\" fill=\"#a9bdad\" font-size=\"15\">提供机制线索\u003c/text>\u003ccircle cx=\"42\" cy=\"158\" r=\"7\" fill=\"#c6e98a\"/>\u003ctext x=\"68\" y=\"164\" fill=\"#edf2df\" font-size=\"22\">人体研究\u003c/text>\u003ctext x=\"68\" y=\"191\" fill=\"#a9bdad\" font-size=\"15\">看临床结局与风险\u003c/text>\u003ccircle cx=\"42\" cy=\"238\" r=\"7\" fill=\"#c6e98a\"/>\u003ctext x=\"68\" y=\"244\" fill=\"#edf2df\" font-size=\"22\">个人决策\u003c/text>\u003ctext x=\"68\" y=\"271\" fill=\"#a9bdad\" font-size=\"15\">看适用性与获益\u003c/text>\u003ctext x=\"24\" y=\"316\" fill=\"#c6e98a\" font-size=\"14\">每一步，都需要额外证据。\u003c/text>\u003c/g>\u003c/svg>"},{"id":"experiment","title":"一次只改一件事，给生活留下余量","chapters":["3","4","22"],"topic":"个人实践","deck":"把他人的日常当作灵感，把自己的记录当作观察；二者都不是因果证明。","steps":[["选一个低负担改变","例如提前准备散步鞋、睡前给手机找一个固定位置，或学习结束后写一张回忆卡。不要同时改作息、饮食和训练，再猜是哪项起效。"],["记下条件与感受","本站建议记录日期、实际动作、精力感受及明显干扰因素。观察一段时间后再决定保留、调整或停止；周期长短不等于医学试验有效性。"],["允许撤回","如果新习惯增加焦虑、持续不适或影响正常生活，应停止并重新评估。生活改善不需要购买同款补剂，也不必照抄名人的整张日程。"]],"boundary":"作者的 2023、2024 年总结与 Lex Fridman 日程文章收在下方原文目录。当前无法读取这些知乎正文，因此这里只提供入口，不把标题当作内容、不编造其结论。","refs":[],"art":null,"source":"https://github.com/zijie0/HumanSystemOptimization/blob/de3188fb1fbc8ac83fd72155df2c11ce9cddd2ba/README.md#个人实践"}],"articles":[{"title":"人体系统调优不完全指南","url":"https://github.com/zijie0/HumanSystemOptimization/blob/de3188fb1fbc8ac83fd72155df2c11ce9cddd2ba/README.md","status":"已读主题正文 · 以原创导读融合"},{"title":"养生博主的 24 年总结","url":"https://zhuanlan.zhihu.com/p/1896275046068094483","status":"仅原文入口 · 正文未取得"},{"title":"养生博主的 23 年总结","url":"https://zhuanlan.zhihu.com/p/675470252","status":"仅原文入口 · 正文未取得"},{"title":"Lex Fridman 大佬的日常生活安排","url":"https://zhuanlan.zhihu.com/p/371254789","status":"仅原文入口 · 正文未取得"},{"title":"人体系统调优 · 作者视频版","url":"https://www.bilibili.com/video/BV1EW4y1R7yi/","status":"视频入口 · 未逐段核验"}]};
 function buildCompanions(){
   const panel=document.createElement('details');panel.id='companions';
   panel.innerHTML='<summary><span><small>深入一点 · 人体系统专题</small><strong id="companion-label"></strong></span><span aria-hidden="true">＋</span></summary><div class="companion-body"><p class="companion-note">本站原创导读，按当前章节与关键词推荐。不计入 552 条建议，也不沿用其证据评级。</p><div id="companion-guides"></div><details class="companion-library"><summary>原文目录与收录说明</summary><p>来源：zijie0 / HumanSystemOptimization。原仓库未声明转载许可，因此保留原文入口，独立编写导读与插图；未复制正文或原图。核对日期：'+COMPANIONS.reviewed+'。</p><ul>'+COMPANIONS.articles.map(a=>'<li><a target="_blank" rel="noopener noreferrer" href="'+esc(a.url)+'">'+esc(a.title)+' ↗</a><small>'+esc(a.status)+'</small></li>').join('')+'</ul></details></div>';
@@ -1095,6 +1137,16 @@ function syncReadingTools(){
   if(!index.hidden){const visible=CARDS.filter(c=>!c.el.hidden);document.getElementById('index-count').textContent=visible.length+' 条';for(const card of visible){const a=document.createElement('a');a.href='#'+card.el.id;a.textContent=card.e.n+'. '+card.e.title;nav.appendChild(a);}}
 }
 function wireReadingTools(reset){
+  // Match anchor clearance to the actual toolbar height, including wrapped controls.
+  const readingTools=document.querySelector('.reading-tools');
+  const updateReadingOffset=()=>{
+    const pinned=getComputedStyle(readingTools).position==='sticky';
+    const offset=document.querySelector('.nav').getBoundingClientRect().height+(pinned?readingTools.getBoundingClientRect().height:0)+16;
+    document.documentElement.style.setProperty('--reading-offset',Math.ceil(offset)+'px');
+  };
+  new ResizeObserver(updateReadingOffset).observe(readingTools);
+  window.addEventListener('resize',updateReadingOffset,{passive:true});
+  updateReadingOffset();
   const jump=()=>{apply();document.getElementById('reading-title').scrollIntoView({block:'start'});};
   const select=document.getElementById('chapter-select');
   document.getElementById('hero-chapter').addEventListener('change',e=>{select.value=e.target.value;select.dispatchEvent(new Event('change'));});

diff --git a/assets/responsive.css b/assets/responsive.css
@@ -1,0 +1,39 @@
+/* Shared reading scale. Keep the compact homepage; enlarge content, not empty space. */
+:root{--reader-size:15px;--reader-leading:1.9}
+.human,.rows,.src .body,.intro,.guide-content{font-size:var(--reader-size);line-height:var(--reader-leading)}
+.rows .k,.src summary,.doc-links,.companion-note,.companion-library,.guide-related,.guide-sources,.guide-permalink{font-size:12px}
+.guide-content{max-width:800px;margin-inline:auto;overflow-wrap:anywhere}
+.guide-content h4{font-size:16px}.guide-content figcaption{font-size:12px;line-height:1.7}
+.guide-content figure{max-width:760px;margin:22px auto}.guide-content svg{min-height:0}
+.guide-content .guide-art-mobile{display:none}
+.companion-guide>summary{font-size:16px;min-height:52px}.companion-guide>summary small{font-size:11px}
+.large-text{--reader-size:18px}.large-text .human,.large-text .rows,.large-text .src .body,.large-text .intro,.large-text .guide-content{font-size:var(--reader-size)}
+.large-text .guide-content h4{font-size:19px}
+.card-h h3{overflow-wrap:anywhere}.sec-h h2{min-width:0}.sec-h .shown{flex-shrink:0}
+.reading-tools{gap:10px}.chapter-controls{min-width:0;flex:1 1 260px}.chapter-controls select{max-width:none}.reading-switches{flex-wrap:wrap}
+.reading-tools button,.chapter-controls select,.hero-chapter select,.stat button,.outline-button{min-height:44px}
+.reading-tools button{font-size:12px}.chapter-controls select{font-size:14px}
+#chapter-prev,#chapter-next{min-width:44px}.save-button{width:44px;min-width:44px;min-height:44px}
+#chapter-index a,.guide-sources summary,.companion-library summary,.reading-help>summary{min-height:44px;display:flex;align-items:center}
+.reading-help>summary{justify-content:space-between;gap:12px}
+.guide-related a,.guide-permalink{padding-block:8px}
+.back-top{width:44px;height:44px;right:max(16px,env(safe-area-inset-right));bottom:max(16px,env(safe-area-inset-bottom))}
+@media(min-width:961px){.sidebar .sec-link{font-size:12px;min-height:36px}.sidebar .chip{font-size:12px;min-height:32px}}
+@media(max-width:960px){
+ .menu-btn{width:44px;height:44px;flex-shrink:0}.sidebar{padding-bottom:max(24px,env(safe-area-inset-bottom));overflow-y:auto;overscroll-behavior:contain}.sidebar .sec-link{min-height:44px;font-size:14px}.sidebar .chip{min-height:44px;padding:8px 12px}.sidebar .toggle{min-height:44px;display:flex;align-items:center}
+ .search input{font-size:16px;min-height:44px}.chapter-controls select,.hero-chapter select{font-size:16px}
+ .switch{width:44px;height:44px;border-radius:24px}.switch .knob{top:12px}.switch .knob{left:2px}
+ .card,.sec-block,#companions,.companion-guide{scroll-margin-top:230px}
+}
+@media(max-width:640px){
+ .nav-in{padding-inline:max(12px,env(safe-area-inset-left));gap:6px}.title{font-size:19px;gap:6px;white-space:nowrap}.title .logo{width:24px;height:24px}.search{max-width:44px;flex-shrink:0}.search input{width:44px}.search svg{left:13px}
+ .library-layout,.library-heading{margin-inline:16px}.card{padding:18px 14px}.card-h{gap:7px}.card-h h3{font-size:17px}.human{padding:12px}.badge{font-size:11px}.rows{gap:5px}.rows .k{font-size:12px}.doc-head .reader-note{font-size:12px}.doc-head .stat{font-size:11px;gap:5px}.stat #text-size,.stat #saved-filter{font-size:11px;padding:8px}
+ .chapter-controls{flex-basis:100%;gap:5px}.chapter-controls label{display:none}.reading-tools{padding:8px 0;gap:6px}.reading-switches{gap:4px}.reading-tools button{padding:8px 6px;font-size:11px}.segmented{padding:2px}.reading-tools .segmented button{font-size:10px;padding-inline:5px}
+ #companions>summary{padding:15px 12px}#companions>summary small{font-size:12px}.companion-body{padding:0 8px 12px}.companion-guide>summary{padding:14px 12px;gap:8px;align-items:flex-start}.companion-guide>summary span{flex:1;min-width:0}.companion-guide>summary small{font-size:11px;line-height:24px}.guide-content{padding:0 12px 16px}.guide-content ol{padding-left:20px}.guide-content aside{padding:12px}.guide-content figure{max-width:340px}.guide-content .guide-art-wide{display:none}.guide-content .guide-art-mobile{display:block}.companion-note{line-height:1.8}.companion-library ul{padding-left:20px}
+ .hero-chapter select{min-height:44px}.path-card p{font-size:10px}.path-card h3{font-size:13px}.hero-actions .primary,.hero-actions .text-action{min-height:44px;display:inline-flex;align-items:center}.evidence-help .method p{font-size:12px}
+}
+/* Short landscape screens need room for the article, not a second pinned header. */
+@media(max-height:500px) and (max-width:960px){.reading-tools{position:static}.card,.sec-block,#companions,.companion-guide{scroll-margin-top:calc(var(--nav-h) + 14px)}.sidebar .sec-links{max-height:none}.hero-art{height:240px}}
+
+html{scroll-padding-top:calc(var(--nav-h) + 16px)}
+.card,.sec-block,#companions,.companion-guide{scroll-margin-top:max(0px,calc(var(--reading-offset,230px) - var(--nav-h) - 16px))}

diff --git a/README.md b/README.md
@@ -39,6 +39,7 @@ npm run build
 - [正文目录与术语](CONTENT.md) · [补充长文](docs/) · [来源核实记录](docs/核实记录/)
 - [人体系统专题](docs/人体系统专题.md)：7 篇原创导读、3 张原创插图，按章节推荐，支持搜索与离线阅读。
 - `content/human-system.json`：专题内容与来源；修改后运行 `node tools/companions/build.mjs` 更新网页。
+- `assets/responsive.css`：电脑、平板、手机的阅读字号、触控区域与横屏适配；由构建脚本内联到网页。
 - `index.html`：网站界面与阅读交互。
 - `book/`：32 章 Markdown 正文。
 - `tools/offline/`：零依赖离线构建。
